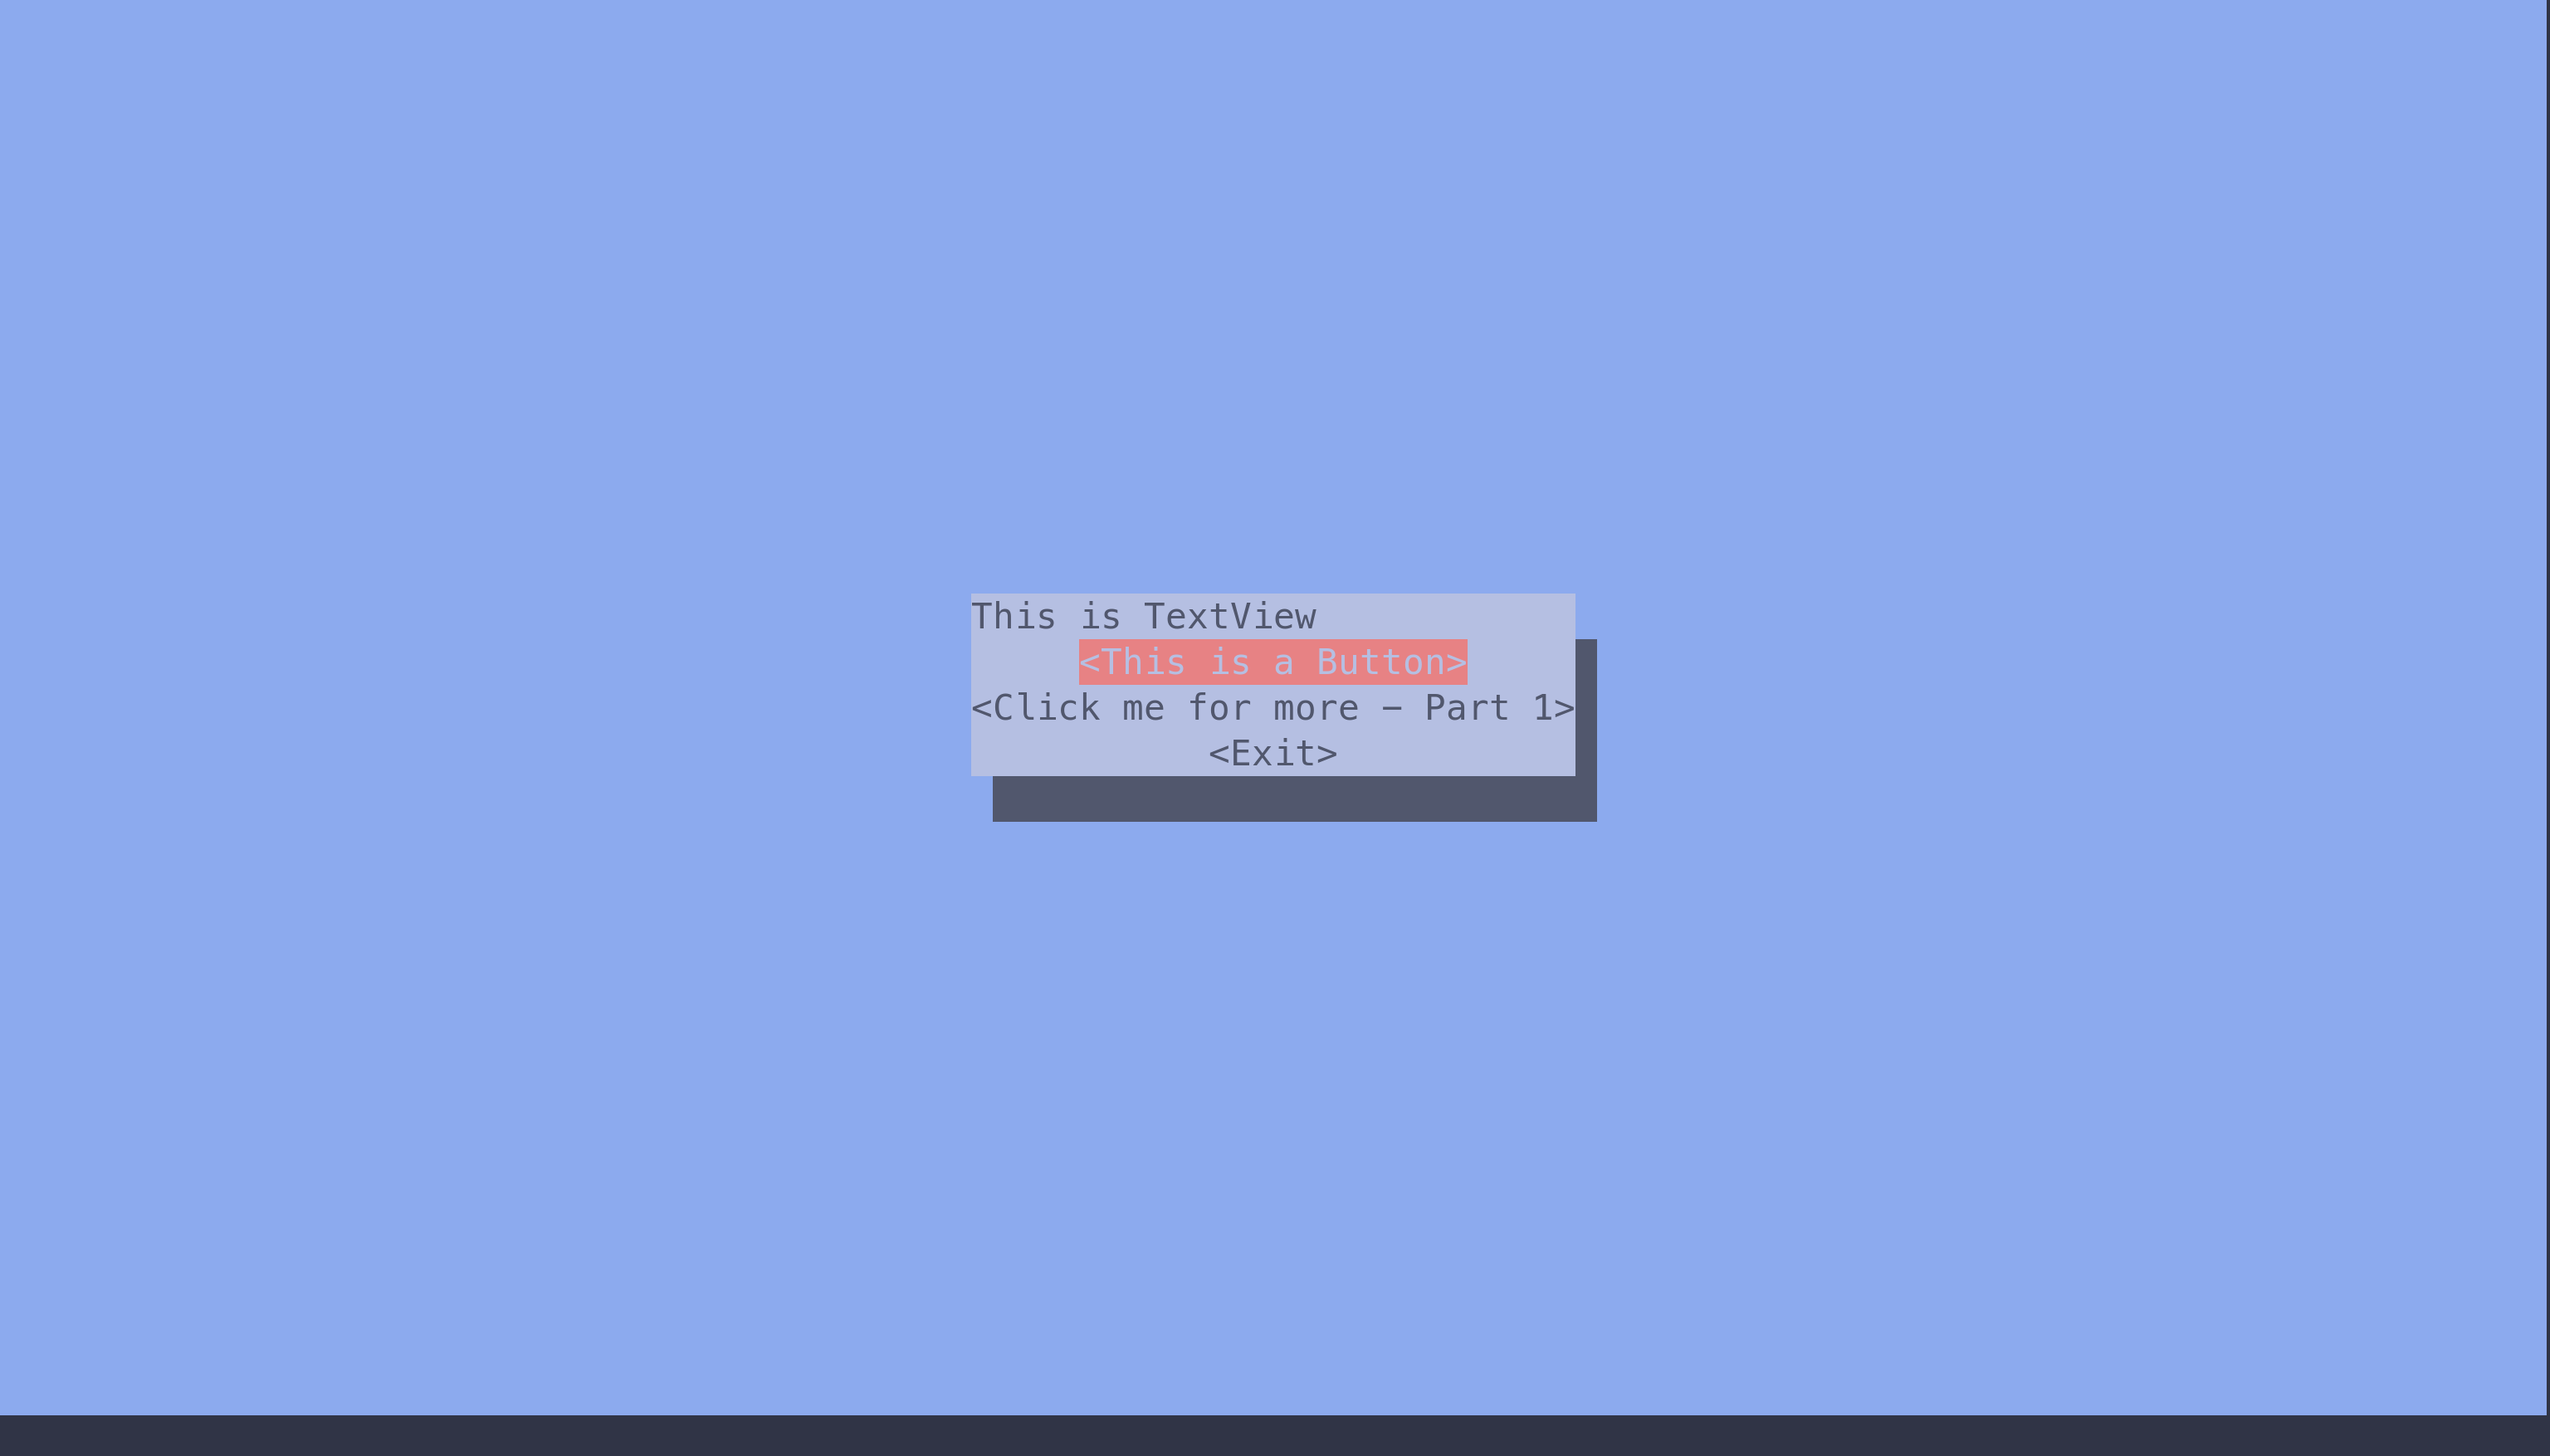
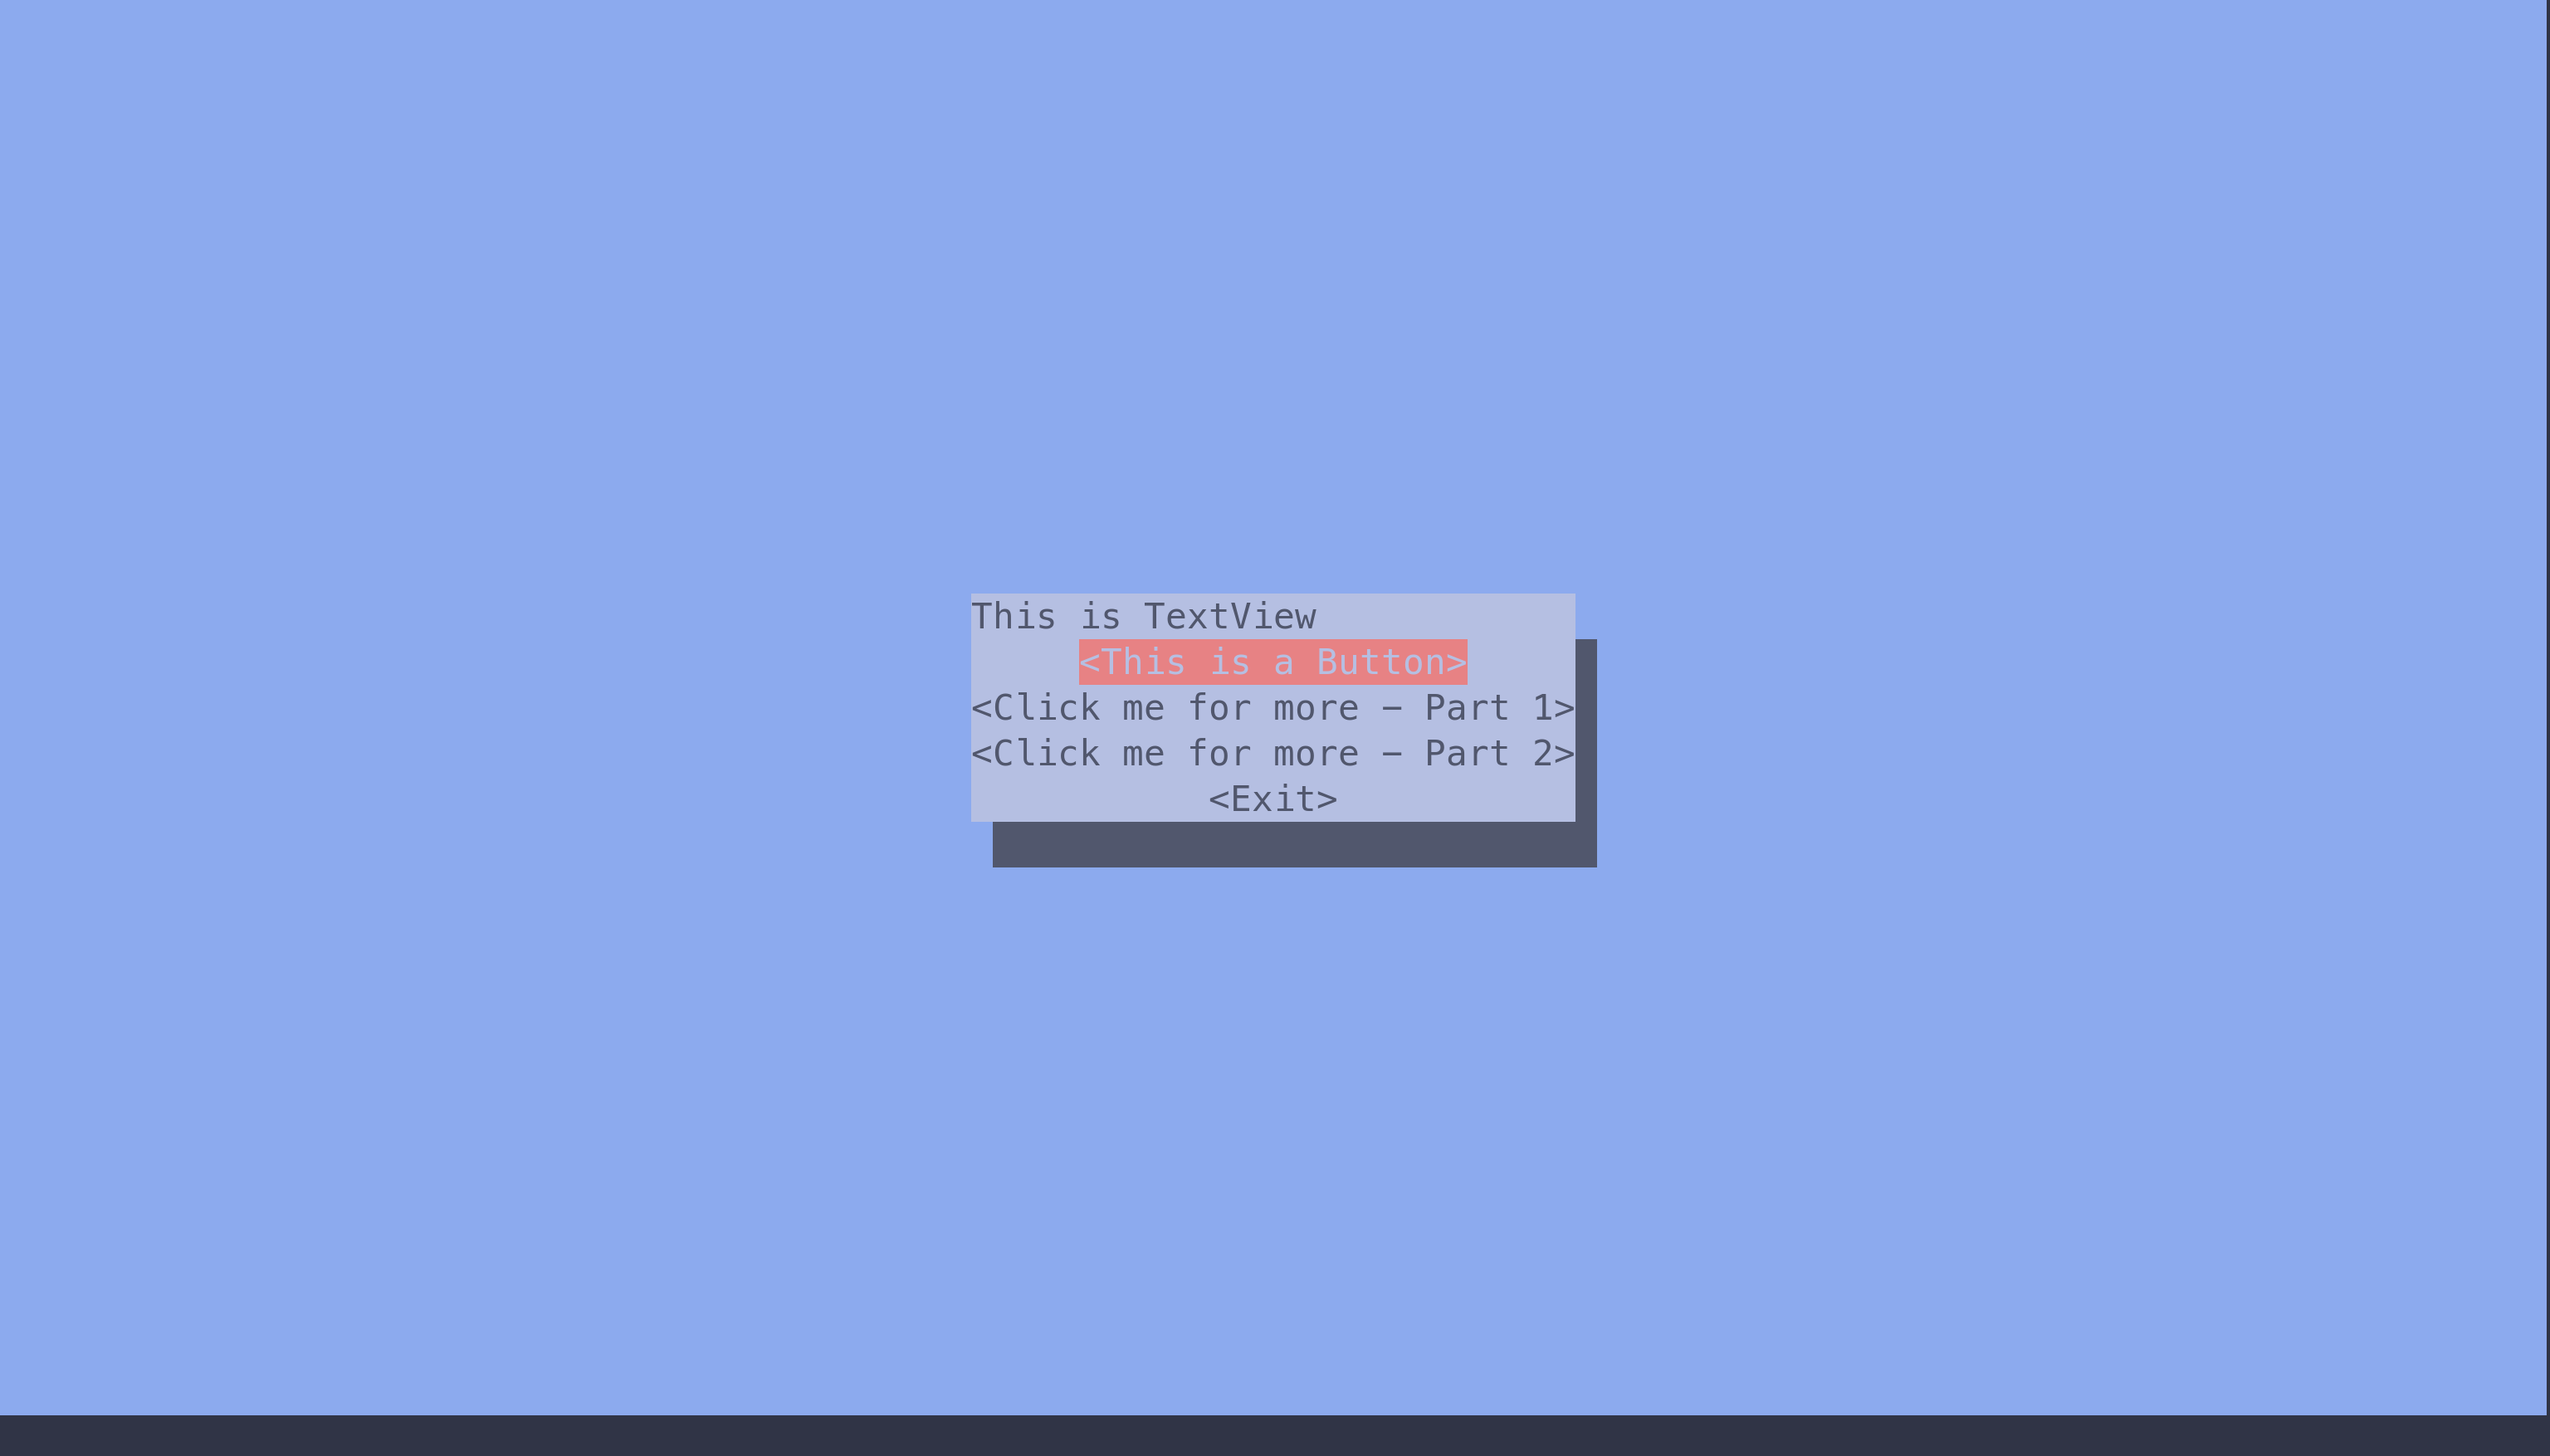
Part 2 images added

Changed region(s): [[0.375, 0.4926, 0.625, 0.6157]]

diff --git a/all_famous_ui_elements/src/main.rs b/all_famous_ui_elements/src/main.rs
@@ -1,3 +1,4 @@
+use cursive::align::*;
 use cursive::traits::*;
 use cursive::views::*;
 use cursive::Cursive;
@@ -10,6 +11,7 @@ fn main() {
         .child(TextView::new("This is TextView"))
         .child(Button::new("This is a Button", open_dialog_box))
         .child(Button::new("Click me for more - Part 1", part1))
+        .child(Button::new("Click me for more - Part 2", part2))
         .child(Button::new("Exit", |s| s.quit()));
 
     siv.add_layer(elements);
@@ -42,6 +44,37 @@ fn part1(s: &mut Cursive) {
     )
     .title("Part - 1 Widgets")
     .button("Back", back);
+    s.add_layer(dialog_elements);
+}
+
+fn part2(s: &mut Cursive) {
+    let dialog_elements = Dialog::around(
+        LinearLayout::vertical()
+            .child(TextView::new("TextArea"))
+            .child(TextArea::new().content(""))
+            .child(TextView::new("SelectView"))
+            .child(TextView::new("").with_name("text"))
+            .child(
+                SelectView::new()
+                    .h_align(HAlign::Center)
+                    .item("Point 1", 1)
+                    .item("Point 2", 2)
+                    .item("Point 3", 3)
+                    .on_submit(|s, item| {
+                        let chosen = match *item {
+                            1 => "Point 1",
+                            2 => "Point 2",
+                            3 => "Point 3",
+                            _ => unreachable!("No such Point"),
+                        };
+
+                        s.add_layer(Dialog::info(format!("You chose \"{}\"", chosen)));
+                    }),
+            ),
+    )
+    .title("Part - 2 Widgets")
+    .button("Back", back);
+
     s.add_layer(dialog_elements);
 }
 

diff --git a/all_famous_ui_elements/UI_Elements.md b/all_famous_ui_elements/UI_Elements.md
@@ -26,3 +26,25 @@ In this file , we will create a TUI containing all the basic UI elements found i
 
 ![P1 Button output](images/Part1/button_p1_editview_out.png)
 
+<br><br>
+
+### Part - 2 Elements 
+
+![Empty](images/Part2/part_2_empty.png)
+
+<br><br>
+
+![Filled](images/Part2/part_2_filled.png)
+
+<br><br>
+
+![Point 1](images/Part2/point_1.png)
+
+<br><br>
+
+![Point 2](images/Part2/point_2.png)
+
+<br><br>
+
+![Point 3](images/Part2/point_3.png)
+
